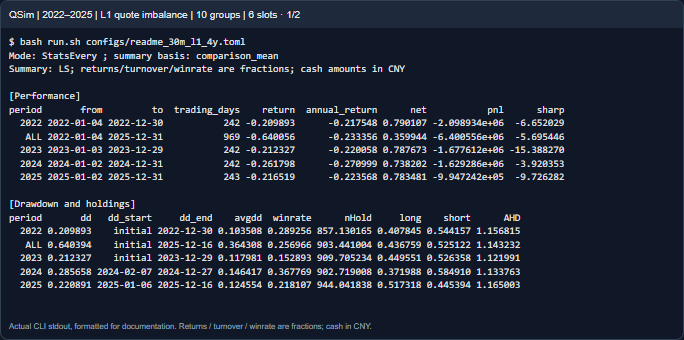
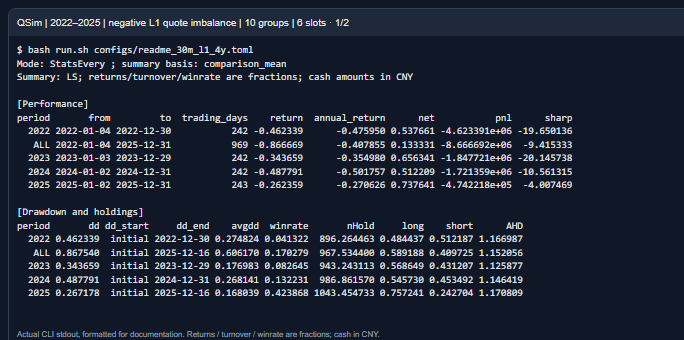
docs: rerun 30-minute example with negated imbalance signal

diff --git a/document/FIVE_YEAR_EXAMPLES.md b/document/FIVE_YEAR_EXAMPLES.md
@@ -2,7 +2,7 @@
 
 [返回 README](../README.md) · [输出字段](OUTPUTS.md) · [统计口径](../STATS.md) · [Level2输入](LEVEL2_EXAMPLE.md)
 
-这里展示真实长区间输出。日频采用固定5日反转；分钟采用回测外生成的买卖一档不平衡度。因子选择用于演示，这些历史结果不是独立样本外检验，不将不同信号、区间和频率的收益直接当作优劣结论。
+这里展示真实长区间输出。日频采用固定5日反转；分钟读取回测外生成的买卖一档不平衡度，并在截尾、标准化后取负。因子选择用于演示，这些历史结果不是独立样本外检验，不将不同信号、区间和频率的收益直接当作优劣结论。
 
 ## 配置与样本
 
@@ -16,7 +16,7 @@
 | 模式 | StatsEvery，1个日频时点 | StatsEvery，6个日内时点独立策略 |
 | 行情采样 | 0800 | 0930-1500-30，全天8根bar |
 | 信号时点 | 0800 | 1000、1030、1100、1330、1400、1430 |
-| 因子 | 5日反转，截尾后截面标准化 | 买卖一档数量不平衡度，决策前9秒内最新有效快照，截尾后截面标准化 |
+| 因子 | 5日反转，截尾后截面标准化 | 负向买卖一档数量不平衡度；决策前9秒内最新有效快照，截尾、标准化后取负 |
 | 标签跨度 | 5根日bar | 40根30分钟bar，约5个交易日 |
 | 预热 | 起点前30个交易日 | 0；外部因子无需行情滚动预热 |
 | 初始资金 | 各分组1000万元，LS多／空目标各500万元 | 每个时点按相同配置独立初始化 |
@@ -45,12 +45,12 @@ python -m qsim --config configs/readme_30m_l1_4y.toml
 
 分钟特征有16个缺失源日期，另外2023-12-08的13:30时点没有有效快照；这些共97个信号时点明确保留缺失，未前向填充旧盘口。末尾30条标签尚未到期，共5687条有效IC。已有持仓按无新信号规则推进，缺因子不等于强制清仓。
 
-两份运行均COMPLETE。以下为扣除配置费用后的LS账户结果；日频全期净值向上，分钟示例仍亏损，均展示真实输出。
+两份运行均COMPLETE。分钟本次仅改信号符号，正向历史结果为−64.01%，取负后为−86.67%；日期、池、费用、账户与数据版本一致。以下为扣除配置费用后的LS账户结果；日频全期净值向上，分钟示例仍亏损，均展示真实输出。
 
 | 示例 | 全期收益 | 最大回撤 | 回撤起点 | 回撤终点 | 日胜率 | 平均日双边换手 | IC |
 |---|---:|---:|---|---|---:|---:|---:|
 | 日频 | 30.06% | 21.96% | 2024-09-18 | 2024-10-31 | 52.56% | 72.96% | 0.031479 |
-| 30分钟6时点均值 | -64.01% | 64.04% | initial | 2025-12-16 | 25.70% | 165.98% | 0.007818 |
+| 30分钟6时点均值 | -86.67% | 86.75% | initial | 2025-12-16 | 17.03% | 159.81% | -0.007818 |
 
 `initial`表示区间初始资金时点就是回撤峰值，不伪造一个交易日日期。
 
@@ -69,11 +69,11 @@ python -m qsim --config configs/readme_30m_l1_4y.toml
 
 | 年度 | 净收益 | 最大回撤 | 日胜率 | IC | Rank IC |
 |---|---:|---:|---:|---:|---:|
-| 2022 | -20.99% | 20.99% | 28.93% | 0.009329 | 0.000894 |
-| 2023 | -21.23% | 21.23% | 15.29% | 0.005815 | -0.000514 |
-| 2024 | -26.18% | 28.57% | 36.78% | 0.011476 | 0.001611 |
-| 2025 | -21.65% | 22.09% | 21.81% | 0.004535 | -0.003341 |
-| ALL | -64.01% | 64.04% | 25.70% | 0.007818 | -0.000307 |
+| 2022 | -46.23% | 46.23% | 4.13% | -0.009329 | -0.000894 |
+| 2023 | -34.37% | 34.37% | 8.26% | -0.005815 | 0.000514 |
+| 2024 | -48.78% | 48.78% | 13.22% | -0.011476 | -0.001611 |
+| 2025 | -26.24% | 26.72% | 42.39% | -0.004535 | 0.003341 |
+| ALL | -86.67% | 86.75% | 17.03% | -0.007818 | 0.000307 |
 
 ### 核验与资源
 
@@ -83,12 +83,12 @@ python -m qsim --config configs/readme_30m_l1_4y.toml
 |---|---:|---:|
 | 有效IC记录 | 1207 | 5687 |
 | 终点右删失标签 | 5 | 30 |
-| 最大逐事件损益对账误差（元） | 6.27e-09 | 5.18e-09 |
-| 回测自身耗时 | 13分9.5秒 | 20分41.7秒 |
-| 进程峰值RSS（MiB） | 376.9 | 412.7 |
+| 最大逐事件损益对账误差（元） | 6.27e-09 | 5.79e-09 |
+| 回测自身耗时 | 13分9.5秒 | 15分43.0秒 |
+| 进程峰值RSS（MiB） | 376.9 | 400.6 |
 | Parquet结果体积（MiB） | 83.5 | 88.0 |
 
-日频限1核／2GiB；分钟限2核／4GiB，均禁swap并监控。分钟耗时包含首次PIT索引准备约175秒；不包含回测外的历史盘口特征生成。任务与监控均已退出。耗时受NAS缓存和共享负载影响，不作为固定性能承诺。
+日频限1核／2GiB；分钟限2核／4GiB，均禁swap并监控。本次负向分钟示例复用已有成品和PIT索引，初始化约1.79秒；前次正向示例首次准备索引约175秒。上述耗时不包含回测外的历史盘口特征生成。任务与监控均已退出。耗时受NAS缓存和共享负载影响，不作为固定性能承诺。
 
 特征生成单独耗时1小时45分，969个日分区覆盖约3453万条时间／证券记录，其中约2623万条有限值。第一次需扫描原始盘口；此后的回测直接复用成品和磁盘索引。详见[构建说明](LEVEL2_EXAMPLE.md)。
 

diff --git a/document/LEVEL2_EXAMPLE.md b/document/LEVEL2_EXAMPLE.md
@@ -1,4 +1,4 @@
-# 买卖一档不平衡度示例
+# 负向买卖一档不平衡度示例
 
 [返回 README](../README.md) · [配置](../configs/readme_30m_l1_4y.toml) · [外部数据接口](DATA.md)
 
@@ -7,6 +7,8 @@
 ```text
 (bid_volume_1 - ask_volume_1) / (bid_volume_1 + ask_volume_1)
 ```
+
+原始Parquet仍保存上述正向值。当前回测配置在截尾、标准化后通过 `combine.expression = "-<l1_imbalance>"` 取负，沿用已有成品与索引。原始／处理后分量的dump仍为原方向，最终组合分数为负方向。
 
 这是盘口挂单数量的不平衡度，不是主动买卖成交量或订单流不平衡度。分母为零时为空值；比例不依赖数量单位换算，不猜测逐笔成交方向编码。
 
@@ -46,6 +48,6 @@ python scripts/build_readme_l1_feature.py \
 
 969个日分区，共34,529,346条时间／证券记录、26,232,674个有限值，约256.4 MiB。固定证券轴中不活跃、未接入或无有效快照的证券保留NaN；不能把所有NaN都解释为源数据损坏。16个日期缺少正式源文件，另有2023-12-08的13:30时点无有效快照；日期清单在`COMPLETE.json`和逐日audit中。
 
-一次性生成耗时1小时45分，最多5核／16GiB、实际峰值14GiB、无swap；之后的QSim回测约20分42秒，其中首次PIT索引准备约175秒。成品与索引可复用。
+一次性生成耗时1小时45分，最多5核／16GiB、实际峰值14GiB、无swap；之后的QSim回测约20分42秒，其中首次PIT索引准备约175秒。本次负向回测复用成品与索引，约15分43秒，初始化约1.79秒；没有重新扫描原始盘口。
 
 单独剖析2024-09-30：约2937万条原始记录，保留8.36万条候选快照。总43.55秒中，读取／解压29.02秒，筛选转换对齐等13.10秒，质量检查1.41秒，盘口指标计算0.033秒。读取阶段包括Arrow解压，不是纯磁盘时间；这条有界提取路径仍有读取和转换优化空间，NumPy计算本身不是主要耗时。

diff --git a/document/assets/README.md b/document/assets/README.md
@@ -12,8 +12,8 @@
 
 ### 当前长区间示例
 
-- 配置：[日频](../../configs/readme_daily_5y.toml)、[30分钟](../../configs/readme_30m_l1_4y.toml)。日频2021–2025年固定5日反转；分钟2022–2025年买卖一档不平衡度，均历史全A池、10组。
-- 运行ID：`readme_daily_reversal5_candidate_20261030_135734_607571_82bfa4e9`、`readme_30m_l1_4y_20261030_142653_560352_6f7f7645`；两者均COMPLETE，分别有1／6套StatsEvery时点策略。完整统计与验证见[长区间示例](../FIVE_YEAR_EXAMPLES.md)。
+- 配置：[日频](../../configs/readme_daily_5y.toml)、[30分钟](../../configs/readme_30m_l1_4y.toml)。日频2021–2025年固定5日反转；分钟2022–2025年负向买卖一档不平衡度，均历史全A池、10组。
+- 运行ID：`readme_daily_reversal5_candidate_20261030_135734_607571_82bfa4e9`、`readme_30m_l1_4y_20261030_160015_832678_7a6fb02b`；两者均COMPLETE，分别有1／6套StatsEvery时点策略。完整统计与验证见[长区间示例](../FIVE_YEAR_EXAMPLES.md)。
 - `readme_daily_5y_*.png`、`readme_30m_l1_4y_*.png`中的七张结果图逐字节复制自运行目录，未修改净值或裁剪年份。
 - terminal／terminal_details为同次CLI真实stdout的上／下半摘要排版截图；标题显示可复现的公开配置命令，数值保持原样。原始日志与临时HTML留NAS。
 - 原组合取负后的日频实跑仍亏损，随后固定测试5日反转，保留相同日期／池／费用；最终日频+30.06%，分钟−64.01%，未通过修改曲线制造盈利。

diff --git a/CHANGELOG.md b/CHANGELOG.md
@@ -2,7 +2,8 @@
 
 ## 未发布
 
-- README长区间示例更新为2021–2025固定5日反转、2022–2025外部买卖一档不平衡度；重新生成真实PNG／终端图，补充输入覆盖、缺失值与构建说明。两例LS净收益分别+30.06%／−64.01%，保留实际成本和回撤；原始数据与结果留NAS。
+- 30分钟示例按要求将处理后的不平衡度信号取负，复用原始因子表重新运行2022–2025；更新真实图片和统计，净收益−86.67%。除combine.expression外配置与正向运行一致，原结果留NAS。
+- 此前README长区间示例更新为2021–2025固定5日反转、2022–2025正向外部买卖一档不平衡度；当时两例LS净收益分别+30.06%／−64.01%。原始数据与结果留NAS，当前分钟图使用上面的负向运行。
 - 多因子中性化复用当期暴露、行业哑变量和同有效截面的标准化设计矩阵；保留逐因子OLS、float64和原处理顺序，缓存有界且不跨时点。局部基准与适用边界见document/PERFORMANCE_RESULTS.md。
 - P1性能优化：复用行情轴索引、减少临时复制，保留mmap及冷缓存原子构建；日末按时点批量汇总，事件／期末持仓有界合批，CSV逐批flush、Parquet完整后发布，绘图只读必要列。
 - 保持float64和交易口径。三轮同配置暖缓存对照：30分钟16日中位18.55→10.92秒，1分钟2日49.04→24.07秒；完整表对照及真实f/p/c通过，80项本机回归通过。样本和限制见document/PERFORMANCE_RESULTS.md。
